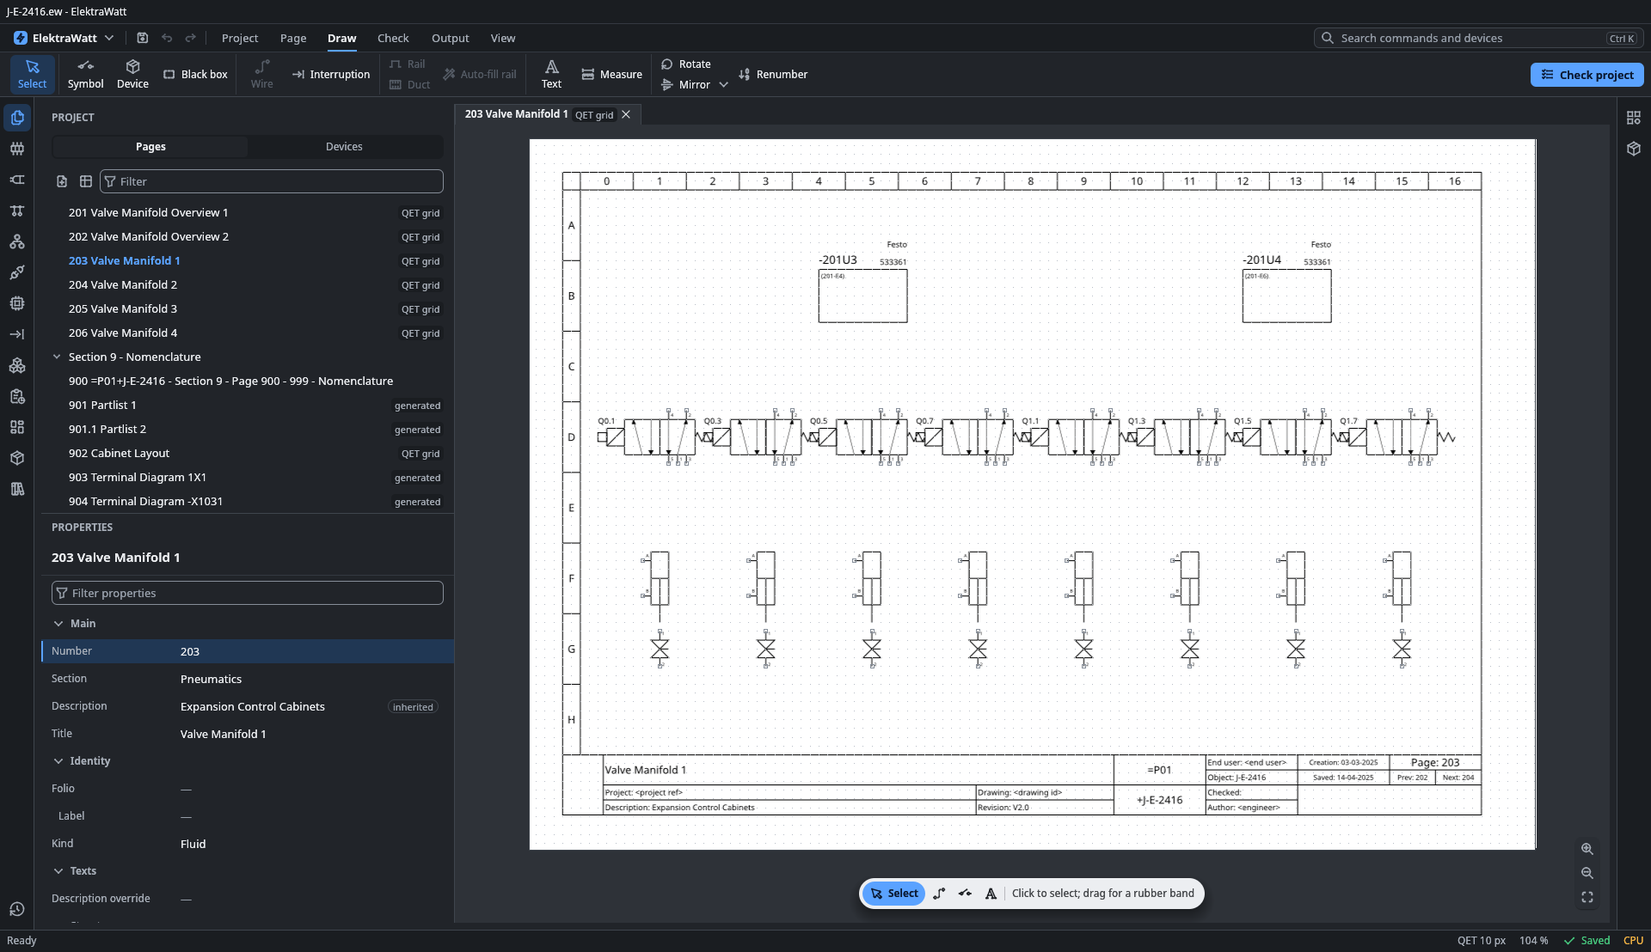
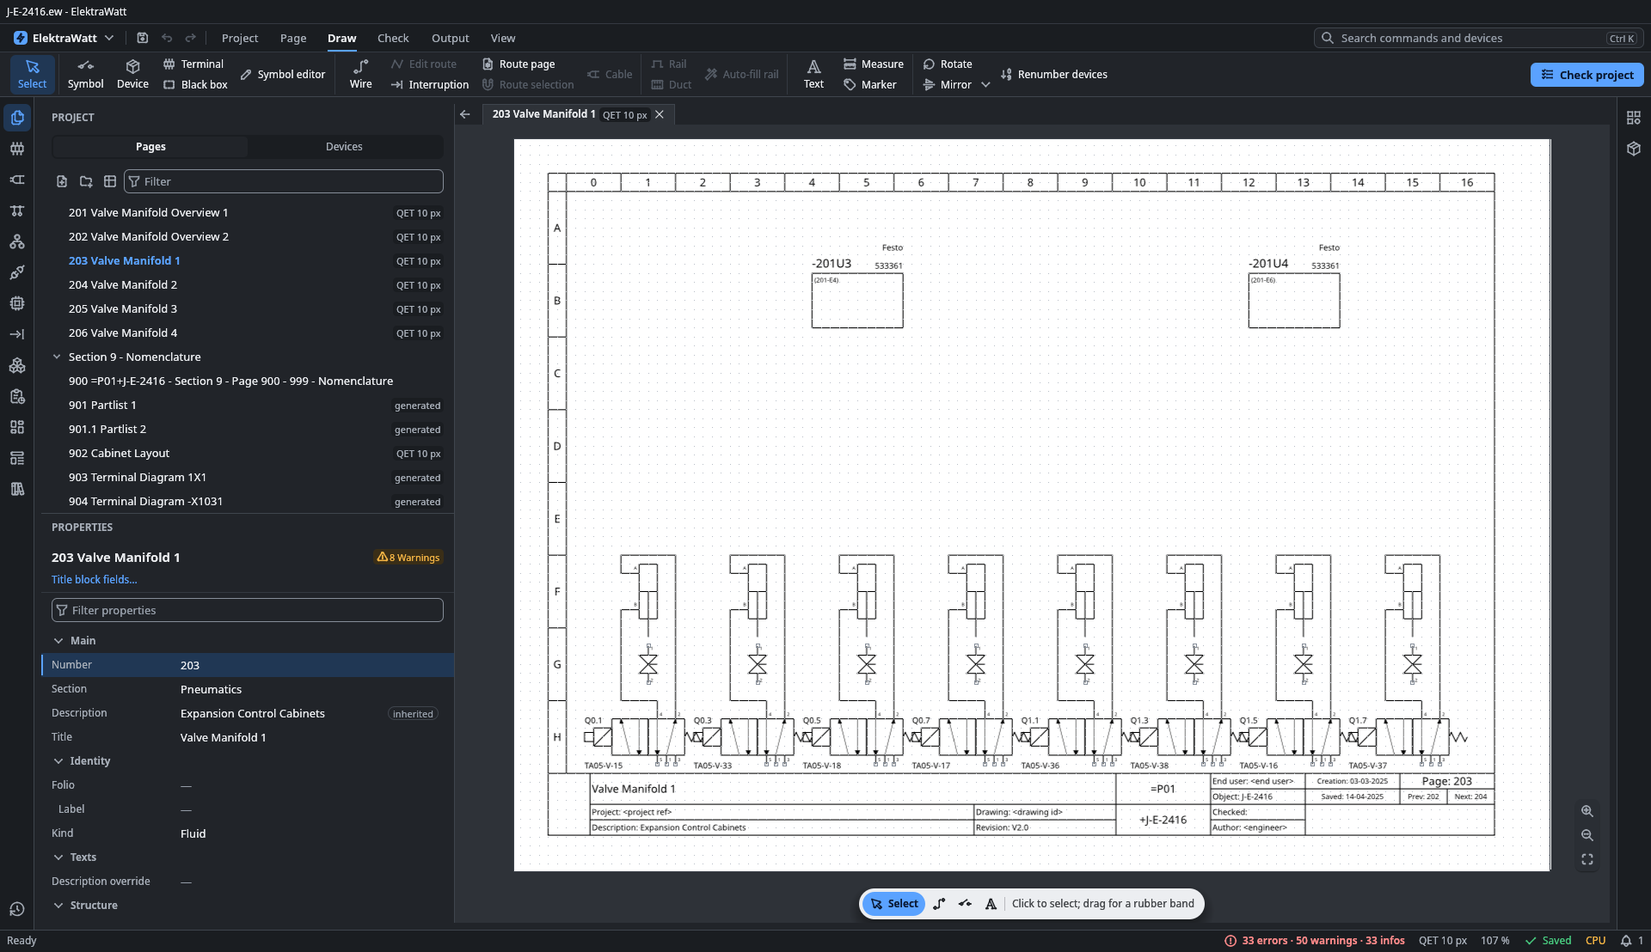
docs: 0.2.0 is released; the README's download, pictures and status
The README gains a Download section for 0.2.0 (the files, verifying them against SHA256SUMS, no network code), six
screenshots the application drew offscreen at 1920 x 1080 on a copy of the reference project (the check findings,
the right-click menu, Cable…, the symbol editor, the panel layout, the dark theme), and a status that says what 0.2.0
brings. The dossier records the owner's go and the promote of v0.2.0-rc.3; the plan and the roadmap close M2.5-Fix,
whose open rows move to the later backlog.

diff --git a/README.md b/README.md
@@ -12,43 +12,83 @@ that works with Git.
 main-current schematic on the canvas, and the findings of a project check in the Messages panel below
 it](docs/images/screenshot-schematic-checks.png)
 
+## Download
+
+**[ElektraWatt 0.2.0](https://github.com/Ironkode787/ElektraWatt/releases/tag/v0.2.0)**, released on 2026-11-13, is
+an early alpha for Windows 10 and 11 and for Linux on x86-64:
+
+| File | What it is |
+|---|---|
+| `ElektraWatt-0.2.0-x64-user-setup.exe` | The per-user setup for Windows: the window, the `ew` command-line tool, the starter content, the sample project and the user guide; no administrator rights needed |
+| `ElektraWatt-0.2.0-x86_64.AppImage` | The same for Linux (glibc 2.35 or newer, as on Ubuntu 22.04 and Debian 12) |
+| `ew-0.2.0-…` (`.zip`, `.tar.gz`) | The command-line tool `ew` alone |
+| `SHA256SUMS` | The checksum of every other file |
+
+Nothing is signed yet, so Windows may warn before it runs the setup: check a download against `SHA256SUMS` first, as
+the guide's [Install ElektraWatt](docs/book/src/how-to/install.md) page shows. ElektraWatt makes no network
+connection of its own ([PRIVACY.md](PRIVACY.md)). The [release notes](docs/release-notes/0.2.0.md) list what changed
+and what is known not to work yet.
+
 ## Screenshots
 
-| The panel layout | The dark theme |
+| The right-click menu | Cable… |
 |---|---|
-| ![The cabinet layout page of the reference project: the mounting plate with its rails, ducts and devices, and the parts legend beside it](docs/images/screenshot-panel-layout.png) | ![A fluid-power page of the reference project in the dark theme: a valve manifold with its solenoid valves and cylinders](docs/images/screenshot-dark-theme.png) |
+| ![A wire of the reference project right-clicked: its menu offers Edit route, Wire marker, Define potential, Cable and Print wire numbers first, then the general entries](docs/images/screenshot-right-click.png) | ![The Cable form over three selected supply wires: the proposed tag -101W1, the type 3G1.5 and each wire's core, N on blue, PE on green-yellow, L on brown](docs/images/screenshot-cable-form.png) |
+| **The symbol editor** | **The panel layout** |
+| ![The symbol editor with a copy of the starter coil: its drawing with the connection points A1 and A2, the category Relays, the snap grid, the eight variants and a tool's tooltip](docs/images/screenshot-symbol-editor.png) | ![The cabinet layout page of the reference project: the mounting plate with its rails, ducts and devices, and the parts legend beside it](docs/images/screenshot-panel-layout.png) |
+| **The dark theme** | |
+| ![A fluid-power page of the reference project in the dark theme: a valve manifold with its solenoid valves and cylinders](docs/images/screenshot-dark-theme.png) | |
 
 The screenshots show the reference project `golden/J-E-2416.ew` at 1920 × 1080. The application drew them itself,
-with its offscreen renderer (`elektrawatt --headless --visual`), the same one its window checks use.
+with its offscreen renderer (`elektrawatt --headless --visual`), the same one its window tests use.
 
 ## Status
 
-**0.1.0, an early alpha, was released on 2026-11-08** for Windows and Linux, unsigned and with no network code.
-Hands-on use found basic flows that do not work well yet. A maintenance milestone (M2.5: a leaner code base, tests
-and documents) followed; the work now is a milestone of fixes that ends in 0.2.0. The [roadmap](ROADMAP.md) lists the
-milestones and [docs/plan](docs/plan/README.md) the open work.
+**0.2.0 was released on 2026-11-13.** It is the fix release that followed 0.1.0 (2026-11-08): it fixes what stopped
+the work when 0.1.0 was used by hand, and the owner's hands-on test of its first candidate asked for shorter ways to
+things that were there but hard to find, so it also brings the right-click menu as the quick way to what fits the
+thing under the pointer, forms for cables and terminals, and the other flows below. It is still an early alpha: the
+[release notes](docs/release-notes/0.2.0.md), section 7, list the known limitations. The [roadmap](ROADMAP.md) lists
+the milestones and [docs/plan](docs/plan/README.md) the open work.
 
 What works today:
 
 - **The window**, `elektrawatt`: opens a project with the page list, a zoomable canvas, navigators, table mode and a
   status bar; creates new projects through the first-run and company-standard wizards; docks panels into named
-  workspaces; and edits: places devices and symbols, draws and routes wires with interruption points, edits
-  properties, finds and replaces, copies and pastes, and undoes with a history. Every change is a recorded command.
-- **The 2D panel layout**: enclosures, rails and mounting plates drawn as a panel page, with placing tools and the
-  checks that go with them.
+  workspaces; and edits: places devices, symbols and terminals, draws and routes wires with interruption points,
+  edits properties, finds and replaces, copies and pastes, and undoes with a history. Every change is a recorded
+  command.
+- **The right-click menu** offers what fits the thing under the pointer first: Add terminal and Edit strip on a
+  terminal, a relay's free contacts on its coil, Choose part and Edit symbol on a device, Edit route, Wire marker,
+  Define potential and Cable on a wire, the partner and the direction of an interruption point, Title block fields on
+  the title block. The rows of the navigators offer the same as the page; Shift+F10 opens the menu at the selection.
+- **Wires, cables and potentials**: Cable… makes the selected wires a cable's cores in one form (the type as a person
+  writes it, `3G1.5`; N on blue, PE on green-yellow); a wire takes its core's or its potential's cross-section and
+  colour; wire markers and wire numbers print on the wires; Define potential… chooses the type from a list; a wire
+  without a named potential is offered one with its reason, to accept or decline; Supply comes in here… marks the
+  interruption points where the supply enters from another drawing set.
+- **Terminals**: Terminal… asks for the strip, the kind, the part, how many and from which number, then places the
+  row with one click.
+- **The title block**: Title block fields… edits what a page's title block prints, for a project imported from
+  QElectroTech too.
+- **The symbol editor**: draws a symbol with its connection points and text slots on a snap grid, files it under a
+  category, and checks it before saving it to a library; Edit symbol and Copy and edit open it from the browsers.
+- **The 2D panel layout**: a panel layout page from New page, enclosures, rails, ducts and mounting plates, with
+  placing tools and the checks that go with them.
+- **QElectroTech import**: File ▸ Import… reads a `.qet` project with its title blocks, logos, tables and free
+  graphics, and opens a project archive (`.ewz`).
 - **The `ew` command-line tool**: import of QElectroTech projects, checks with the pre-delivery scheme, a read-only SQL
   projection, cable list, bill-of-materials and table exports, PDF/A-2b and SVG export of every page, a print set,
-  applying recorded command files, revisions and verification of the derived data. Run `cargo run -p ew -- help` for
-  the full usage.
+  applying recorded command files, revisions and verification of the derived data. Run `ew help` for the full usage.
 - **Outputs**: reports (parts list, terminal and cable lists, cover tables and back-links) drawn on report pages and
   written as PDF/A-2b and SVG.
 - **The reference project** `golden/J-E-2416.ew` (36 pages, anonymised) with its expected outputs, and the acceptance
   tests that check the acceptance criteria of the design against them.
 - **Headless operation**: the window runs the same actions from a UI script without a display
   (`elektrawatt --headless --script <file>`), which is how the UI is tested.
-- **Tests**: about 7,400 across the workspace, with determinism lints (no wall clock, no environment reads and no
-  hash-ordered collections in the model, derivation, format and export paths), property tests, a command fuzzer
-  and the golden project as oracle.
+- **Tests**: about 7,000 across the workspace, with determinism lints (no wall clock, no environment reads and no
+  hash-ordered collections in the model, derivation, format and export paths), window tests driven by the pointer
+  and the keys, property tests, a command fuzzer and the golden project as oracle.
 
 ## Building and running
 
@@ -58,7 +98,7 @@ The pinned toolchain in `rust-toolchain.toml` is installed automatically by rust
 ```sh
 cargo build --workspace --locked
 cargo xtask check -p <crate>   # format, clippy, that crate's tests and the repository rules
-cargo xtask check              # the same over the whole workspace, about twelve minutes
+cargo xtask check              # the same over the whole workspace, several minutes
 ```
 
 To look at the reference project, work on a copy of it, because the application and the tool keep a lock and a

diff --git a/docs/plan/backlog-later.md b/docs/plan/backlog-later.md
@@ -75,6 +75,7 @@ The numbers are the old follow-up numbers (history: `5516edba4`).
 - FT-1419 `ew-import-tables`: The `route` column of `connections.csv` accepts only connection-point ends a symbol draws, no junction, black-box or strip-segment end (FT51e).
 - FT-1484 `ew-import-tables, ew-derive`: A `route` end at a terminal-strip segment (FT-1419's rest): its position comes from ew-derive's segment layout and ew-import-tables has no edge to ew-derive; design how the importer resolves it (an …
 - FT-1579 `ew-api`: Routing at an import's front door for `ew import csv`, whose `route` column is optional (a QET import needs none any more: every wire arrives routed).
+- FT-1645 `ew-import-qet, ew-scene`: What an imported QET folio still shows differently, after the full-fidelity work of M2.5-Fix: a master's contact list has no contact symbols and its rows stand closer than QET's 10 px (the scene has no list drawing and the text style no line height); `displayhas="cross"` and `snapto="bottom"` cross-references print as a list, with a report entry; QET's folio list arrives as EW's own table of contents; an element's `mirror` is not read (QET 0.100 writes none; newer versions do); fonts are substituted, so texts sit slightly lower.
 
 ## Libraries, parts and content
 
@@ -305,3 +306,7 @@ The numbers are the old follow-up numbers (history: `5516edba4`).
 - FT-1721 `ew-derive, content`: The offered potential cannot reason from a relay's part alone: the starter coil parts state a coil voltage of 24 V without AC or DC, so 0 V is offered at A2 only when A1's potential has the type L+ or a phase.
 - FT-1722 `ew-viewmodel, ew-ui`: Small things of the right-click menus: the PLC rows' menus have no window test; the Page properties entry shows the key E in a navigator's menu too; the bar under the page says "R rotates" while a wire is selected; on the sample project the Cable form lists an existing cable's wires with empty cores, since that cable's type yields none; strip accessories are not in a strip's menu.
 - FT-1723 `ew-ui, ew-viewmodel`: What the play-testers of the second candidate met and the candidate leaves: a derived value in Properties (a wire's cross-section) is edited only through "…" and Override, not by a click on the value; the badge "2 Pending" beside a page's name is not explained; Print wire numbers has no place on a ribbon tab; a disabled entry of a folded group's menu shows its reason only on hover; the power supply is placed as a black box by two corners and its preview in the browser is empty; wires are routed over a device's texts and an interruption point can be placed on a device's body; the Devices list calls a strip unplaced while its terminals are placed; the browser's Place button and the rows of Properties move under the pointer when a row is chosen; no right-click entry carries a wire to another page; a title block's revision refusal starts with its rule's number and shows the raw pattern; the pointer's label of the interruption point tool names the directions in English in a Dutch window; at 1280 points a new page opens at 72 %, where pin numbers are hard to read.
+- FT-1604 `ew-viewmodel`: **Medium.** Seen in two of the three wiring runs before 0.2.0: a second wire drawn to an occupied pin is routed over the first wire's last stretch and reads as a join without a dot, so the drawing does not say the two are connected. A wire drawn to a connection point that already holds a wire, where the neighbouring points' stubs leave no clean second route (§5.1 rules 1 and 2), stays unrouted; propose ending it on the first wire as a T junction instead, as drawing practice does.
+- FT-1680 `ew-ui`: The symbol editor's connection points: a selected point shows no properties (its name is under Electrical data, Function definition); the Designation box of the Connection point tool names the next point, which reads as if it renamed the one just placed; "Facing up" does not say which way the wire leaves. The role list scrolling its row to the panel's top (an earlier decision, so that every role shows) made the next click land on another control in a picture-led run.
+- FT-1681 `ew-viewmodel`: A terminal renamed through the Tag row of Properties gets a frozen tag ("-X1011:L (frozen)") that the page does not print: the sheet still shows 1, and no row for the terminal's own designation is in sight.
+- FT-1682 `ew-viewmodel, ew-ui`: Smaller findings of the round: a part drawn as a black box (the power supply) wants two corners, and one click and Escape place nothing without a word; placing a second contact of a contactor from the browser makes a new contactor; Insert symbol lists a symbol twice, "embedded" and "library"; a wire is drawn by clicks and a drag from a pin only starts it; a new lamp is tagged E, not H; the mouse wheel zooms where an EPLAN user expects it to scroll.

diff --git a/docs/plan/backlog.md b/docs/plan/backlog.md
@@ -4,28 +4,6 @@ Open work, one row each. A finished row is deleted; a new one is added under its
 old follow-up numbers, kept so that a row's history can be found in git (`5516edba4`, `docs/plan/follow-ups.md`
 and the work breakdown's Appendix B).
 
-## M2.5-Fix: a properly working program
-
-Fixes only. The gate is the owner's own hands-on test: the wizard, a new project, placing, wiring, routing, the
-symbol editor and the QET import work without anything that stops the work. Its release is 0.2.0.
-
-### The owner's hands-on test of 0.1.0-rc.3
-
-- FT-1645 `ew-import-qet, ew-scene`: What an imported QET folio still shows differently, after the full-fidelity work of M2.5-Fix: a master's contact list has no contact symbols and its rows stand closer than QET's 10 px (the scene has no list drawing and the text style no line height); `displayhas="cross"` and `snapto="bottom"` cross-references print as a list, with a report entry; QET's folio list arrives as EW's own table of contents; an element's `mirror` is not read (QET 0.100 writes none; newer versions do); fonts are substituted, so texts sit slightly lower.
-
-### The owner's hands-on test of 0.2.0-rc.1
-
-After an hour on an imported project of their own. All of it goes into the second candidate (the owner's word).
-
-
-
-### The persona round before 0.2.0
-
-- FT-1604 `ew-viewmodel`: **Medium.** Seen in two of the three wiring runs before 0.2.0: a second wire drawn to an occupied pin is routed over the first wire's last stretch and reads as a join without a dot, so the drawing does not say the two are connected. A wire drawn to a connection point that already holds a wire, where the neighbouring points' stubs leave no clean second route (§5.1 rules 1 and 2), stays unrouted; propose ending it on the first wire as a T junction instead, as drawing practice does.
-- FT-1680 `ew-ui`: The symbol editor's connection points: a selected point shows no properties (its name is under Electrical data, Function definition); the Designation box of the Connection point tool names the next point, which reads as if it renamed the one just placed; "Facing up" does not say which way the wire leaves. The role list scrolling its row to the panel's top (an earlier decision, so that every role shows) made the next click land on another control in a picture-led run.
-- FT-1681 `ew-viewmodel`: A terminal renamed through the Tag row of Properties gets a frozen tag ("-X1011:L (frozen)") that the page does not print: the sheet still shows 1, and no row for the terminal's own designation is in sight.
-- FT-1682 `ew-viewmodel, ew-ui`: Smaller findings of the round: a part drawn as a black box (the power supply) wants two corners, and one click and Escape place nothing without a word; placing a second contact of a contactor from the browser makes a new contactor; Insert symbol lists a symbol twice, "embedded" and "library"; a wire is drawn by clicks and a drag from a pin only starts it; a new lamp is tagged E, not H; the mouse wheel zooms where an EPLAN user expects it to scroll.
-
 ## Later
 
 New development and polish for M3 and after, not scheduled: [backlog-later.md](backlog-later.md).

diff --git a/docs/plan/m2.5-fix.md b/docs/plan/m2.5-fix.md
@@ -41,7 +41,7 @@ the persona rounds (step 8): the owner's test is the gate.
 | 6 | **Placing, the browsers, Properties**: the owner's remaining rows, the persona round's rows, the section "The window: feedback and dead ends" | FT-1634 to FT-1637, FT-1639, FT-1646, FT-1648 to FT-1652, FT-1657 to FT-1660, and the section | done |
 | 7 | **The finish**: density and finish of the main window, the browsers, the panels and the dialogs, judged at 1920 × 1080 | FT-1656 | done |
 | 8 | **The rest**: the section "Wiring and routing"; texts and Dutch; symbols, parts and content; checks, reports and the format; tests | the five sections | done |
-| 9 | **Exit**: the whole check and the deep run, a persona round, the candidate of 0.2.0, the owner's test | | the candidate `v0.2.0-rc.3` is cut (the first gave 28 findings, the second's build failed); the owner's test is open |
+| 9 | **Exit**: the whole check and the deep run, a persona round, the candidate of 0.2.0, the owner's test | | done: `v0.2.0-rc.3` promoted to `v0.2.0` on the owner's go (the first candidate gave 28 findings, the second's build failed) |
 
 FT-1645 carried a decision: where an imported folio's look needs what M3's work packages build, that scope moves
 in or the import is withheld from 0.2.0. **The owner decided on 2026-11-11, after the comparison: full fidelity
@@ -499,3 +499,11 @@ device browser, the bar on the page, the buttons of the Draw tab, the finish) st
   folder and by an absolute path. `v0.2.0-rc.3` is the second candidate with that one file changed; its checklist
   says what was run. A change under `packaging/` is compiled with the pinned NSIS from the repository's root
   before a candidate is cut.
+- **0.2.0 is released; the milestone is closed.** The owner gave the go for `v0.2.0-rc.3` ("Promote the build.").
+  The promote was dispatched from `main`: its dry run listed the five files, the real run made the tag `v0.2.0` on the
+  candidate's commit and published the release with those files, checked again against `SHA256SUMS`. The rows the
+  milestone leaves open (FT-1604, FT-1645, FT-1680 to FT-1682) move to the later backlog with the others. While the
+  README's new pictures were taken, the Cable form showed two defects on the sample's supply, fixed after the
+  release with a window test: it proposed `3x1.5` for three wires one of which is the protective conductor, so the
+  PE wire got no core, and retyping kept the brown core an earlier type had given the neutral; its wire column now
+  fits the wires' names (in `docs/release-notes/unreleased.md`).

diff --git a/docs/release/dossier/0.2.0/README.md b/docs/release/dossier/0.2.0/README.md
@@ -25,7 +25,7 @@ the statement that no employer is involved. No new item is asked for 0.2.0.
 |---|---|---|---|
 | `v0.2.0-rc.1` | `release/0.2`, the commit the tag names | [`checklist-rc.1.md`](checklist-rc.1.md) | Not promoted: the owner's hands-on test gave 28 findings, four of them major |
 | `v0.2.0-rc.2` | `release/0.2`, the commit the tag names | [`checklist-rc.2.md`](checklist-rc.2.md) | No downloads: its release build failed at the Windows setup (the icon's path in the setup's script) |
-| `v0.2.0-rc.3` | `release/0.2`, the commit the tag names | [`checklist-rc.3.md`](checklist-rc.3.md) | Cut; waits for the owner's hands-on test |
+| `v0.2.0-rc.3` | `release/0.2`, the commit the tag names | [`checklist-rc.3.md`](checklist-rc.3.md) | Promoted to `v0.2.0` on 2026-11-13 |
 
 Before the first cut, on the tip that the release branch starts from: the whole workspace passed
 (`cargo xtask check`), the deep run passed, and a persona round of four picture-led runs was triaged (the log's
@@ -51,4 +51,7 @@ checklist's RC-05). The owner's test says whether an open row holds the release.
 
 ## 4. The go
 
-Not given yet. The go is the owner's, after their hands-on test of a candidate.
+Given by the owner on 2026-11-13 for `v0.2.0-rc.3` ("Promote the build."). The release manager dispatched the
+promote from `main`: its dry run listed the candidate's five files, and the real run created the tag `v0.2.0` on
+the candidate's commit and published the release `v0.2.0` (latest) with those files, verified again against
+`SHA256SUMS`. The draft `v0.2.0-rc.3` stays as the record of the candidate.

diff --git a/ROADMAP.md b/ROADMAP.md
@@ -30,13 +30,13 @@ that is running and the open work are in [docs/plan/](docs/plan/README.md).
 |---|---|
 | M0 to M2 | Closed: 0.1.0 was released on 2026-11-08 for Windows and Linux, unsigned and with no network code |
 | M2.5 | Closed on 2026-11-11: the maintenance step ([plan and exit record](docs/plan/m2.5.md)) |
-| M2.5-Fix | Running since 2026-11-11: the fixes that make the program work well in the hand ([plan](docs/plan/m2.5-fix.md), [backlog](docs/plan/backlog.md)) |
+| M2.5-Fix | Closed: 0.2.0 was released on 2026-11-13, the fixes that make the program work well in the hand ([plan and log](docs/plan/m2.5-fix.md)) |
 | M3 to M6, 1.x | Not started |
 
 What works today, in short: the desktop window opens, edits and checks a project, with navigators, table mode, a
 history, the 2D panel layout and printing; the `ew` command-line tool imports QElectroTech projects, checks, exports
-PDF/A-2b, SVG and tables (with the Excel round trip), prints and upgrades a project of an older format. 0.1.0 is an
-early alpha: hands-on use found basic flows that do not work well yet, and M2.5-Fix is there to fix them. The
+PDF/A-2b, SVG and tables (with the Excel round trip), prints and upgrades a project of an older format. 0.2.0 is an
+early alpha that fixes what hands-on use of 0.1.0 found, with the right-click menu and forms for cables and terminals. The
 [README](README.md#status) lists what is built.
 
 ## What is not on the roadmap

diff --git a/docs/plan/README.md b/docs/plan/README.md
@@ -1,12 +1,12 @@
 # The plan
 
-**Running:** milestone **M2.5-Fix**, a properly working program, release 0.2.0: its order, its rules and its log
-are in [m2.5-fix.md](m2.5-fix.md), its rows in [backlog.md](backlog.md).
-**Done:** M2.5, maintenance, closed on 2026-11-11 ([m2.5.md](m2.5.md)). **Next:** M3, new development.
+**Running:** no milestone. **Done:** M2.5-Fix, a properly working program, closed with the release of 0.2.0 on
+2026-11-13 ([m2.5-fix.md](m2.5-fix.md)); M2.5, maintenance, closed on 2026-11-11 ([m2.5.md](m2.5.md)).
+**Next:** M3, new development; open rows are in [backlog-later.md](backlog-later.md) until it is planned.
 
 | File | What it is |
 |---|---|
-| [m2.5-fix.md](m2.5-fix.md) | The running milestone: how a fix is made, the order of the rows, the log |
+| [m2.5-fix.md](m2.5-fix.md) | The fix milestone: how a fix is made, the order of the rows, the log |
 | [m2.5.md](m2.5.md) | The maintenance milestone: principles, steps, assessment, what was cut and why, the exit record |
 | [backlog.md](backlog.md) | Open work, one row each, by milestone. A finished row is deleted |
 | [backlog-later.md](backlog-later.md) | Unscheduled rows for M3 and after: a seed for planning, not a commitment |
